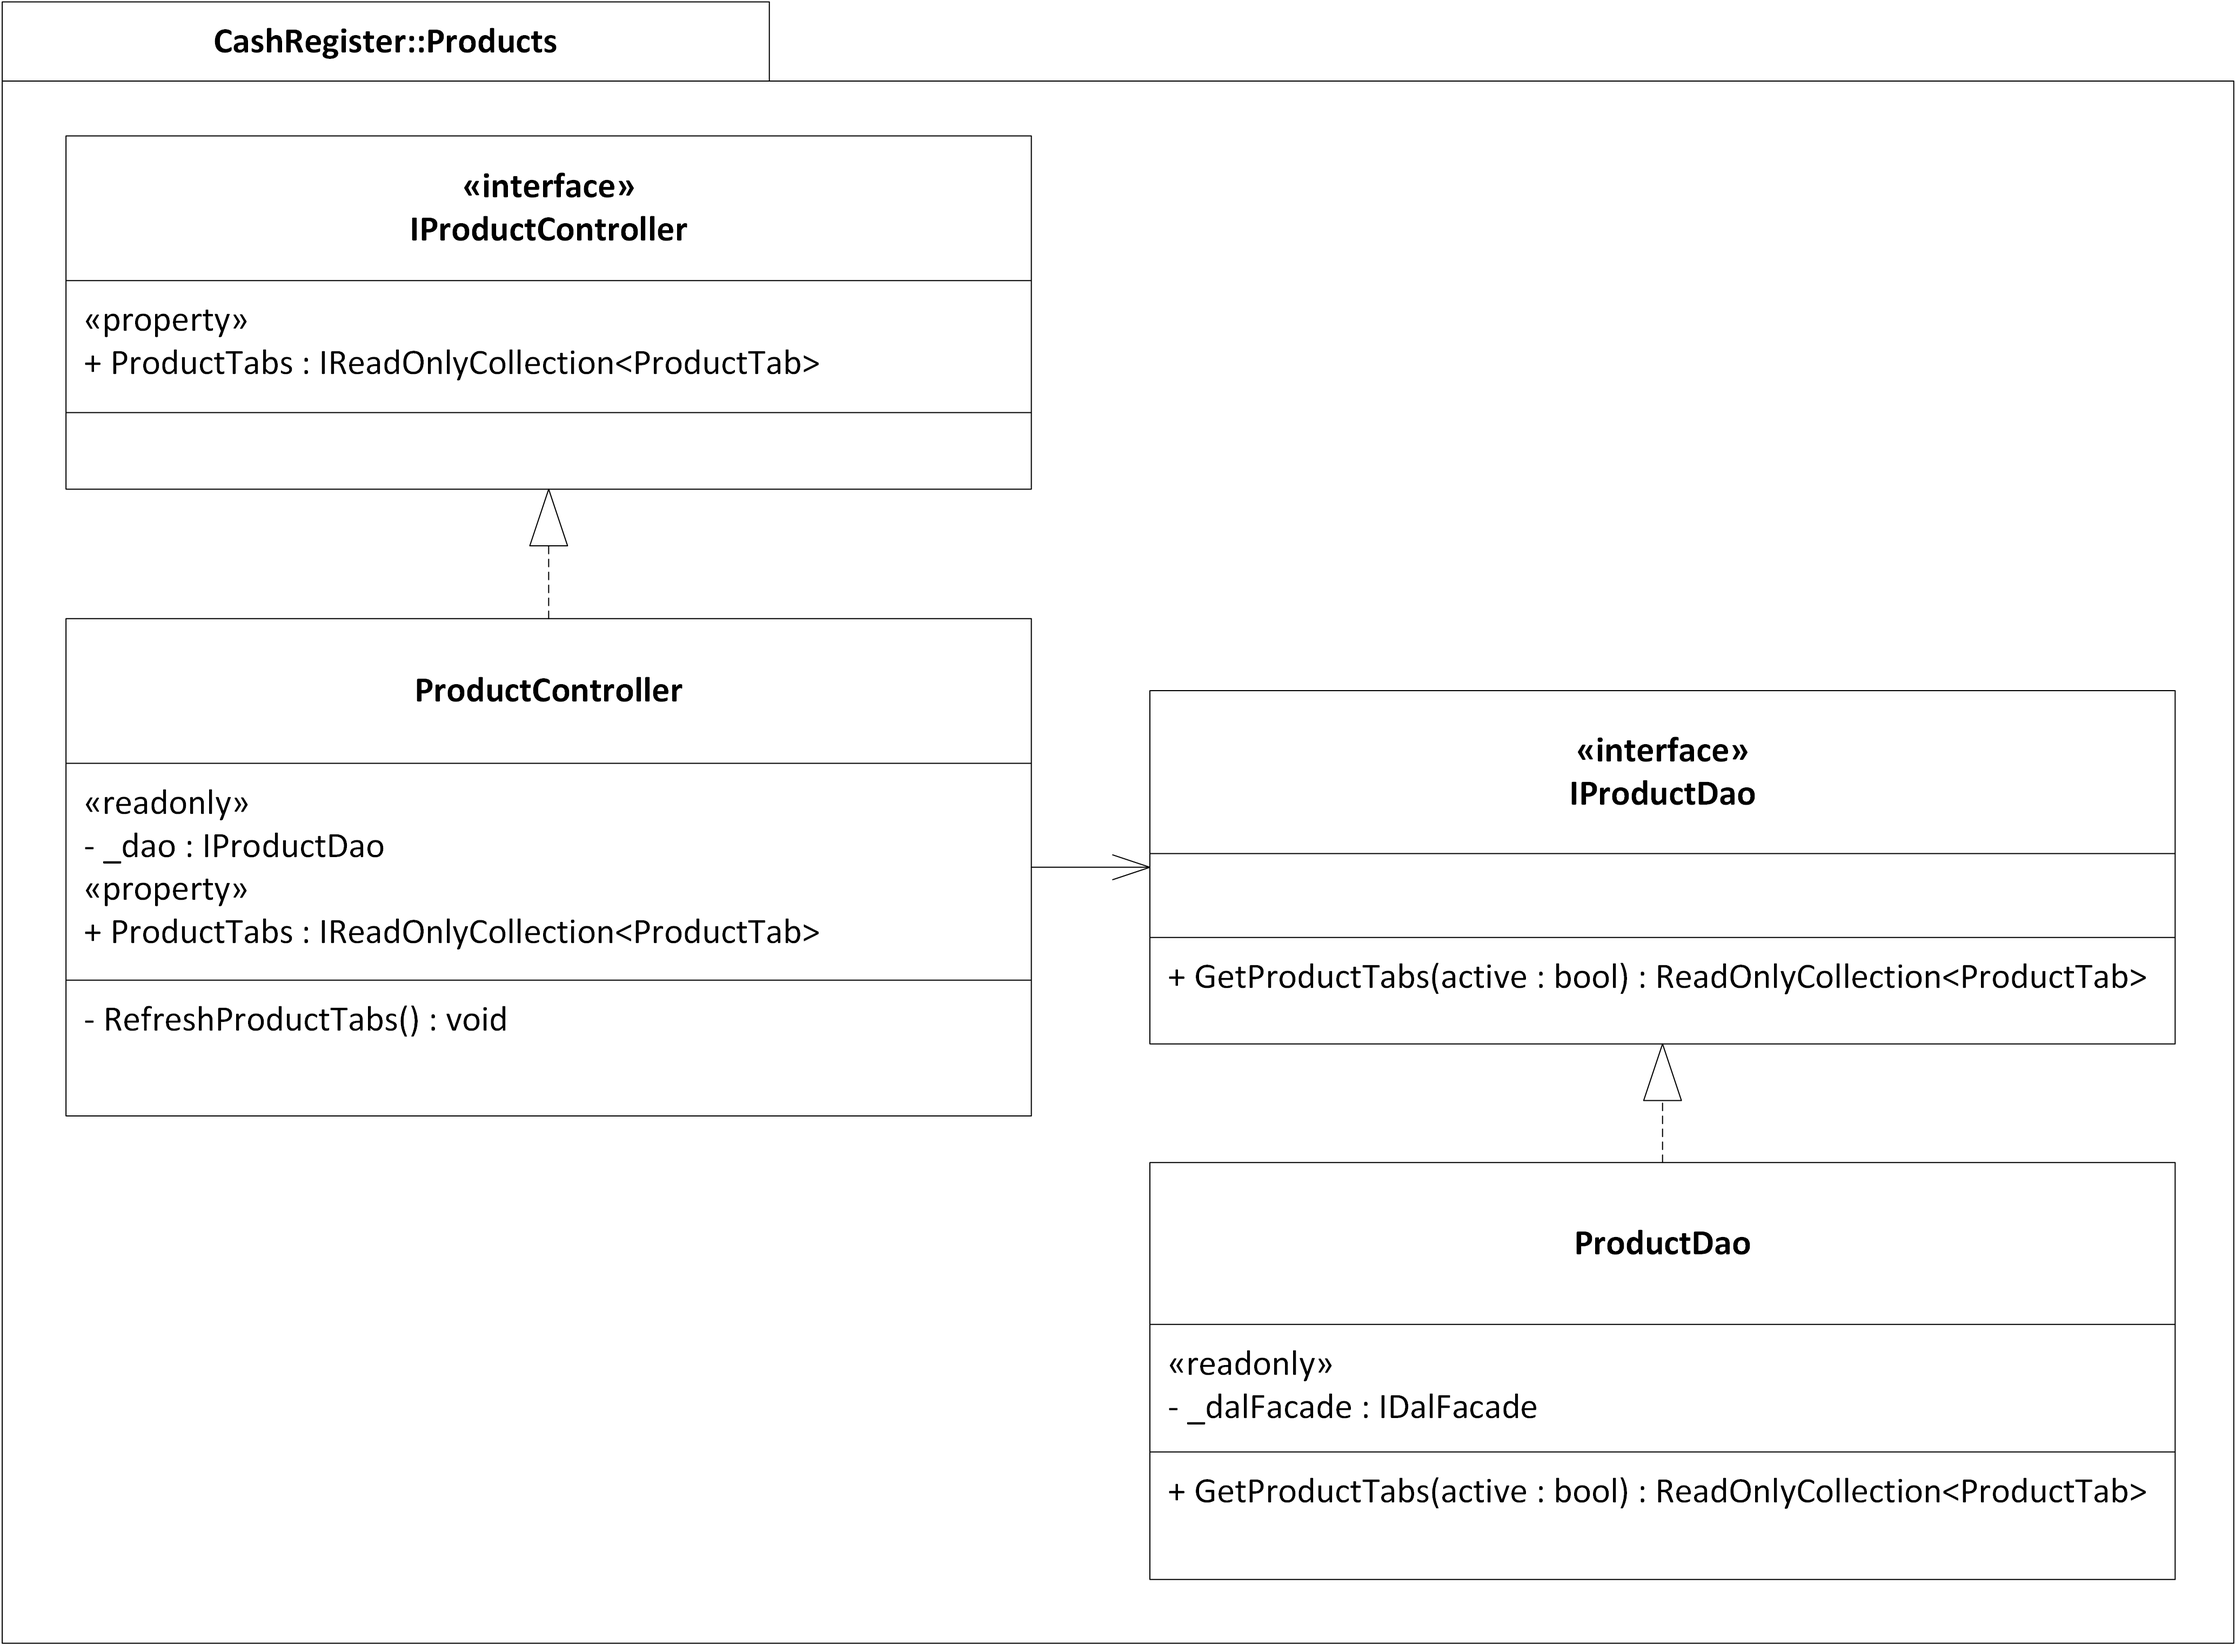
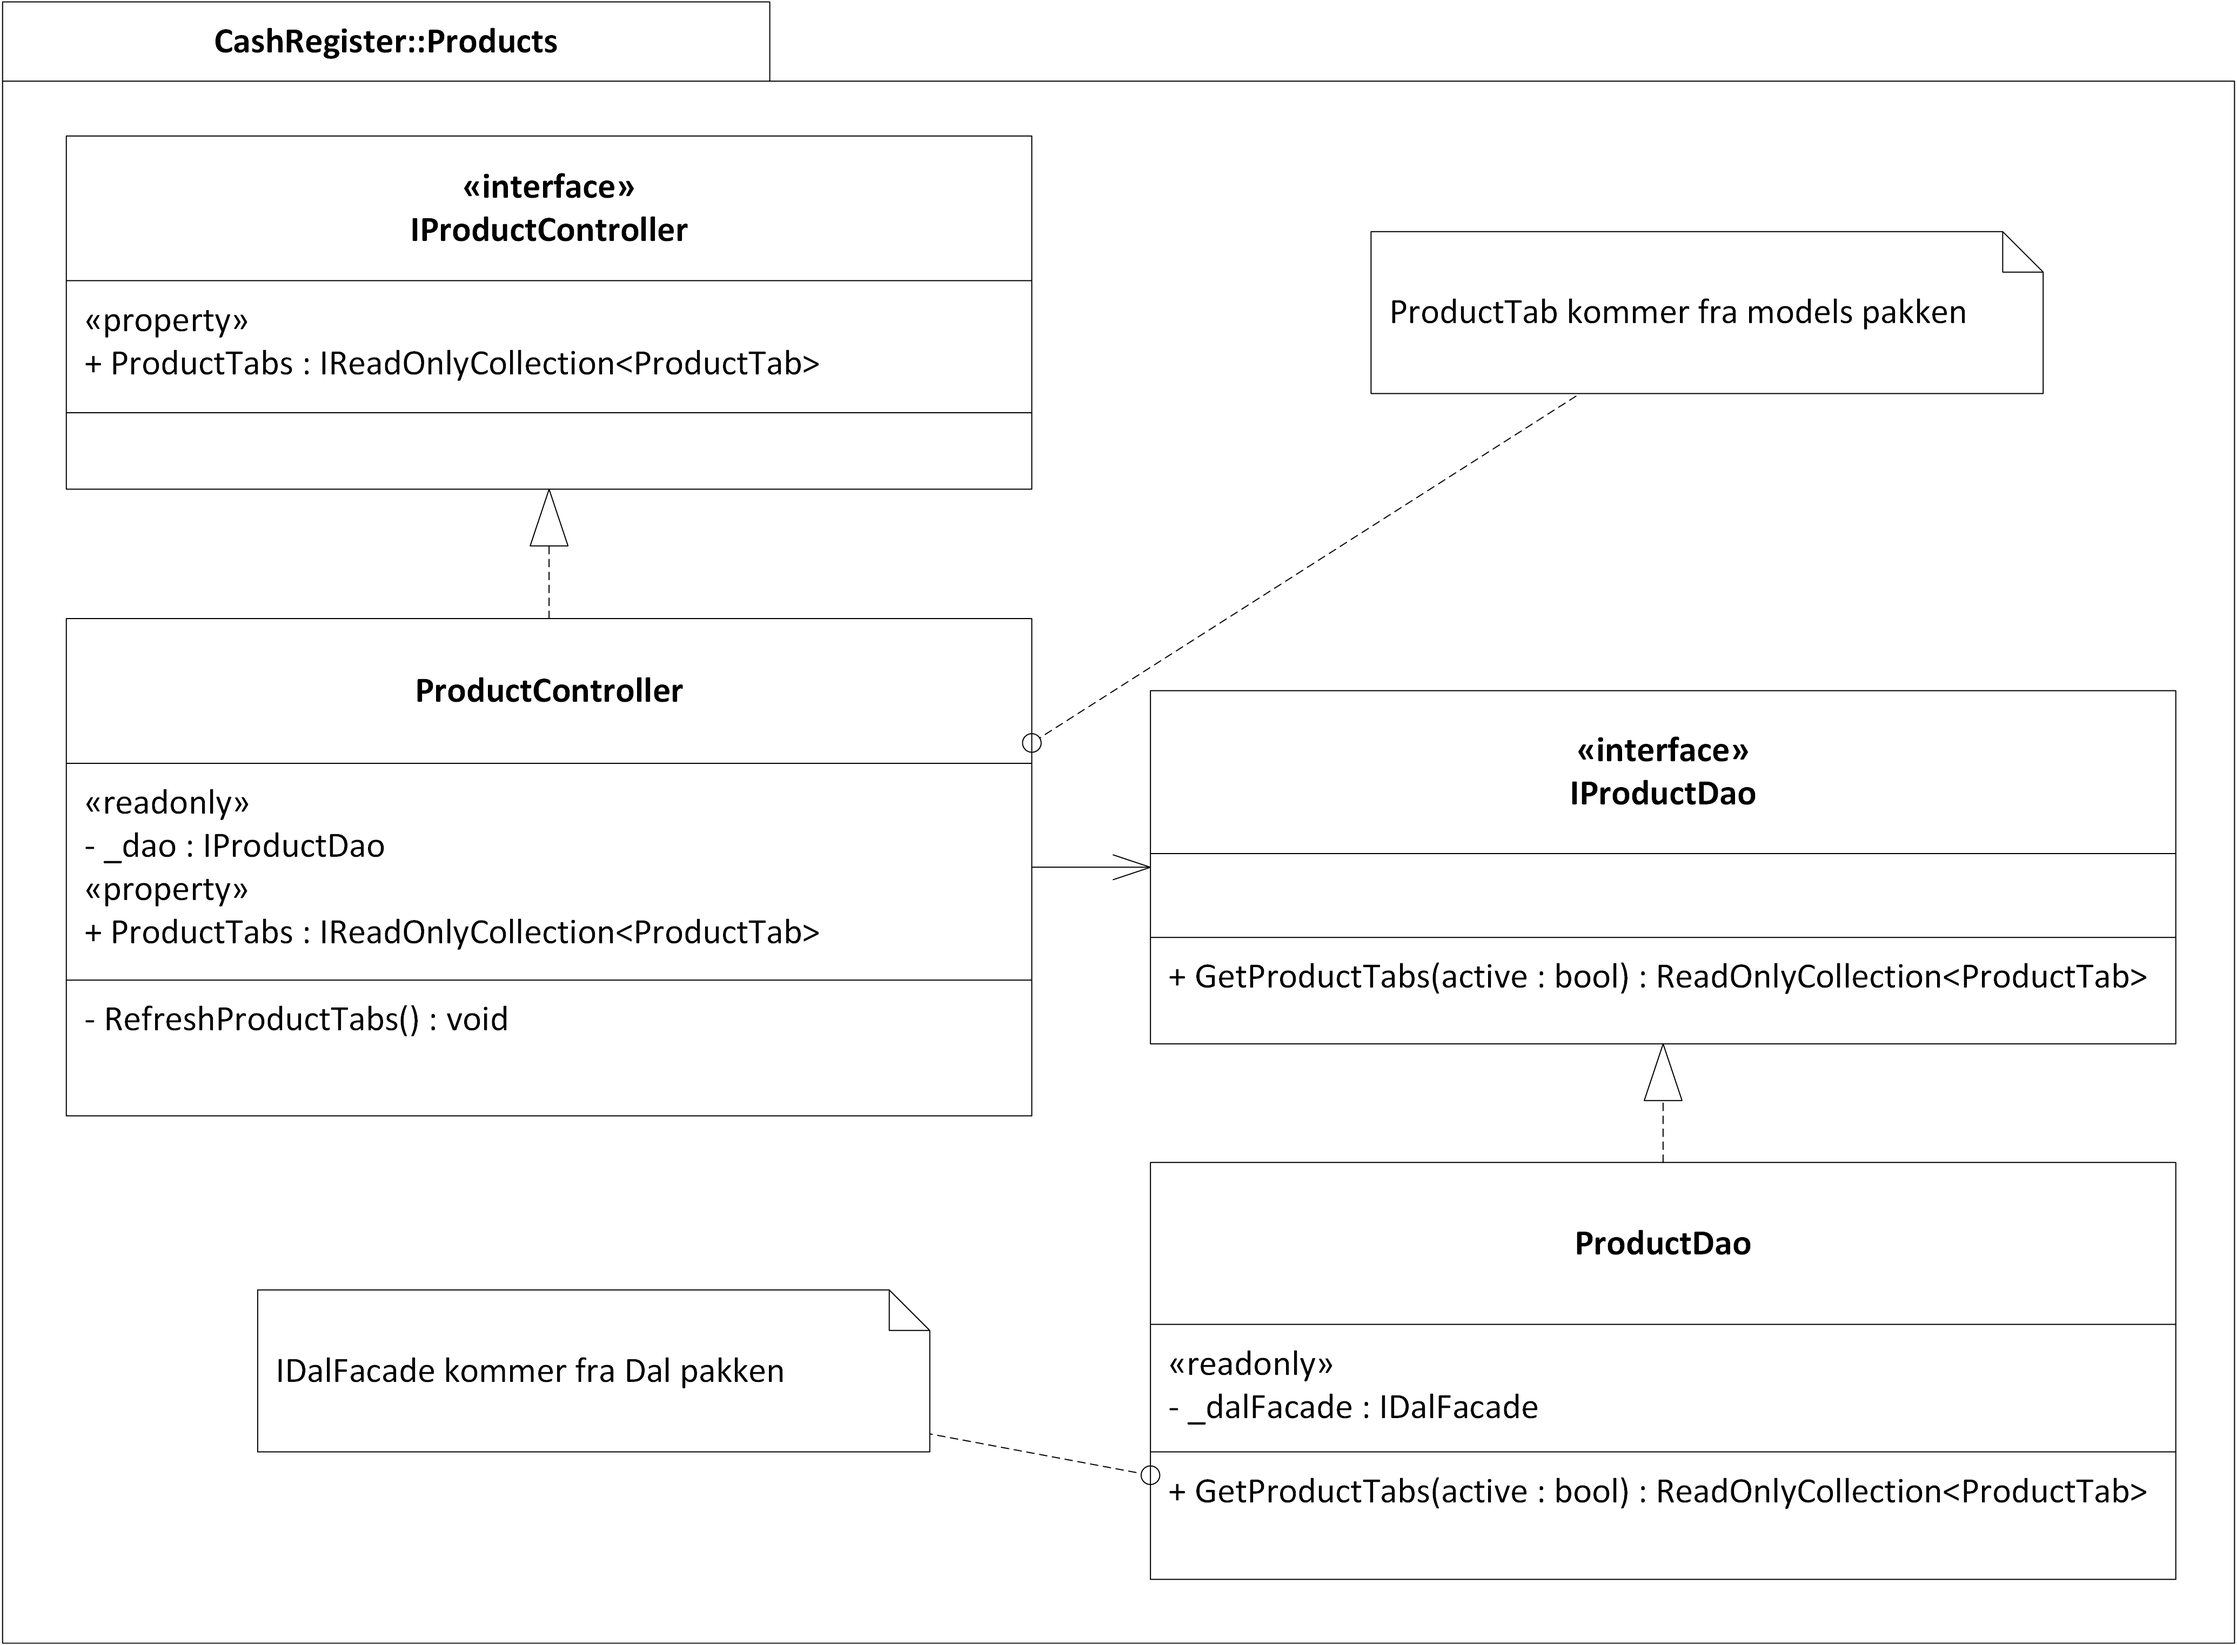
en linje om product + kommentar i diagram

diff --git a/Projektdokumentation/Systemarkitektur/LogicalView/BusinessLayer/Products/Products.tex b/Projektdokumentation/Systemarkitektur/LogicalView/BusinessLayer/Products/Products.tex
@@ -1,1 +1,3 @@
 \logicalview{0.85}{CLASS}{Products}{pakken Products}
+\textbf{Product Pakken}\newline
+Product er en klasse der er lavet for at man kan hente Product fra databasen.  
